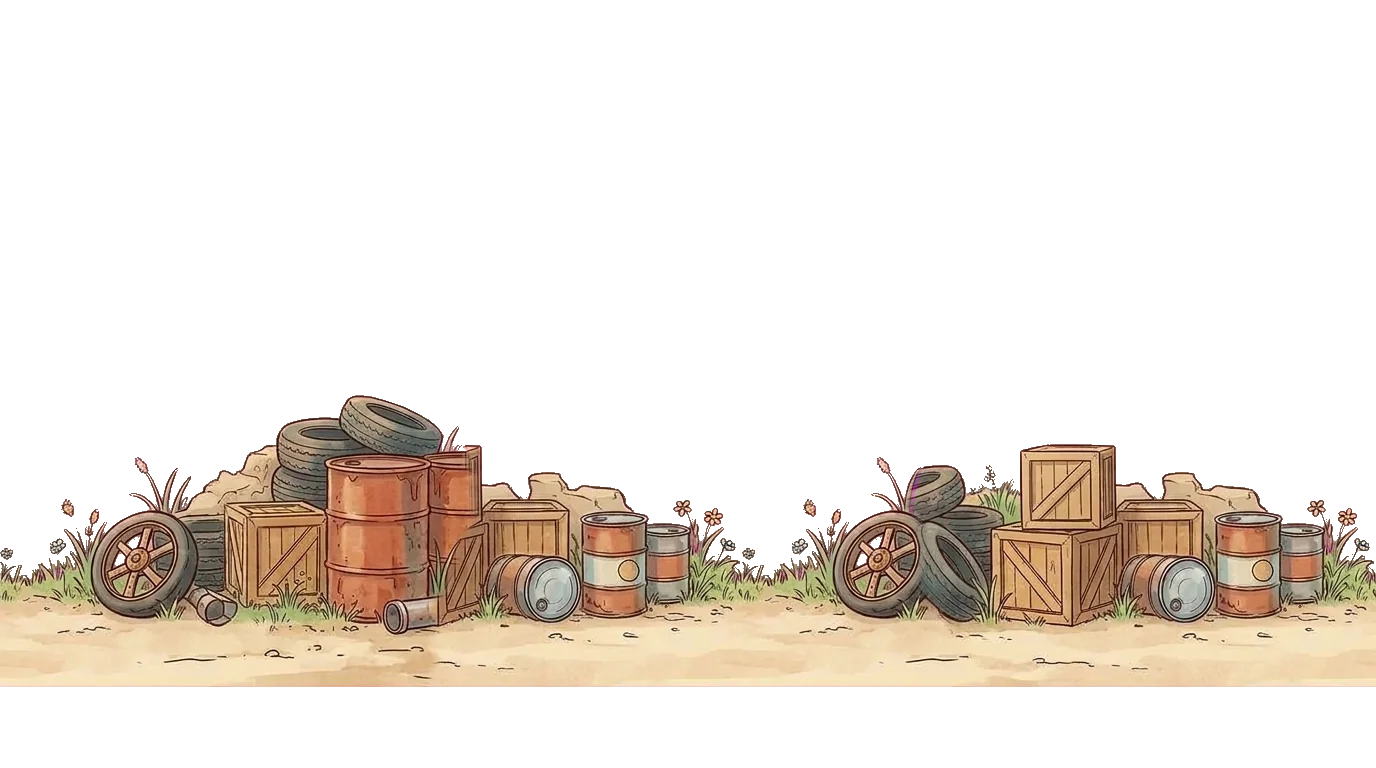
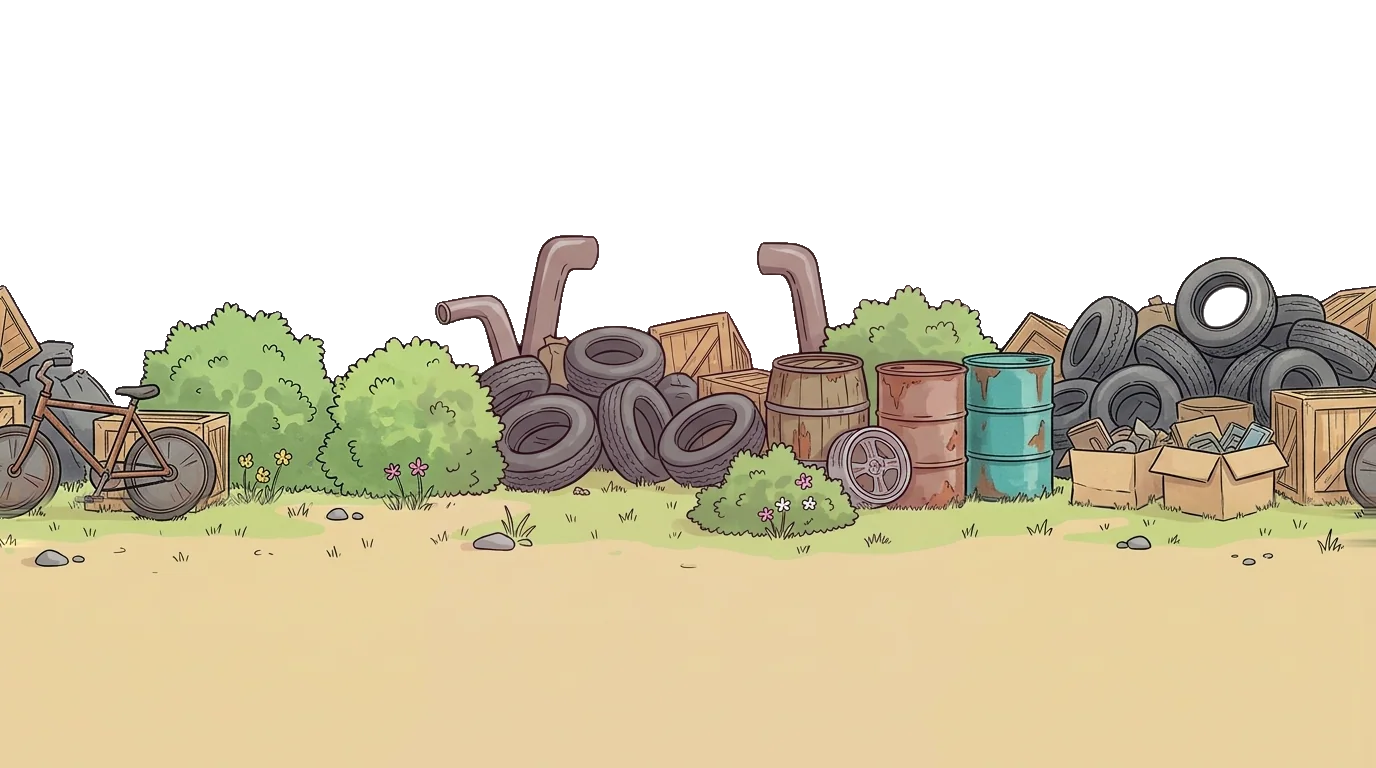
feat(junkyard): redraw background layers from scratch, half-size tire pile

diff --git a/src/game/modes/junkyard.ts b/src/game/modes/junkyard.ts
@@ -215,7 +215,7 @@ export class GearsMode extends ApproachMode {
 
 /** The tire pile: its pictures by stage (big, half, small), their height, and the bin right of it. */
 const PILES = ['obj-tire-pile-1', 'obj-tire-pile-2', 'obj-tire-pile-3'];
-const PILE_H = [300, 220, 140];
+const PILE_H = [150, 110, 70];
 /** The pile stands this far right of him at most (on a wide stage the scene stays together), the bin this far right of the pile. */
 const PILE_FROM_HERO = 820;
 const BIN_FROM_PILE = 220;

diff --git a/assets-src/PROMPTS.md b/assets-src/PROMPTS.md
@@ -249,6 +249,26 @@ Notes from real Gemini runs; add new ones here.
   far itself as donor filled the middle with a slice of the same scene, the sky one tone across the gap
   (junkyard, 2026-11-15, when the daily limit stopped the seam repaint). A few barrels show twice, which
   reads as a row of barrels; a scene with one big landmark in the slice would show it twice.
+- Junkyard layers from scratch (2026-11-15), the owner's procedure for bands: cut the chosen strip of a
+  sheet, move it to the vertical middle of a magenta frame, `prep` it, then also paint white everything
+  below a row about 20 to 80 px above the strip's bottom, across the whole width; Gemini repaints the
+  seam and the ground down to the bottom edge in one go (full bands, no thin cut bottom). `merge` then
+  keeps only the middle, so first copy Gemini's bottom (shifted by `merge`'s reported shift, which was 11 px
+  once) into `rolled.png`, and even the bottom's left and right edges (Gemini's do not meet). The steps
+  ran as one-off scripts. A far with everything important high: say "two more layers will be drawn in
+  front of its lower half, EVERYTHING IMPORTANT IS PLACED HIGH" and describe each third; "the lower,
+  the less detail" worked. "A low crane with a flat boom" still came steep.
+- Seam repaint of a band: name the theme and the drawing style in the prompt (without them Gemini put a
+  wooden wine barrel into the junkyard), and give the white gap's upper border the exact shape of the top
+  edge: `prep` pads the drawing by 3 px, so Gemini drew the edge that much higher (a visible step); a
+  border running straight from one side's edge to the other gave a flat plane; soft bumps of 2 to 13 px
+  that end at both sides' heights, with "draw the line exactly along that upper border, following each
+  bump", joined cleanly. A 30 % gap with the bottom white from 20 px above the strip's bottom left a
+  visible horizontal border; 50 % with the bottom white from about 80 px up did not.
+- Strip prompts that worked (junkyard mid and near): a list of the things and "spread EVENLY from the left
+  edge through the MIDDLE" (the middle becomes the edges at `prep`), solid disc wheels instead of spokes,
+  dark solid car windows, flowers only low in the grass, "NO springs", "one VERY THIN black line as thin as
+  a fine pen" on the top edge; a sand color given in hex taken from the band behind (#E9D2A1) matched it.
 ---
 
 ## 1. Tapko and friends (companions)
@@ -505,22 +525,26 @@ Landscape image, 1376 x 768 pixels (16:9), background for a 2D side-scrolling pl
 
 ### Prompt for the seam (attach `seam-in.png`)
 ```
-Inpainting task on the attached image (1376 x 768 pixels), do not create a new picture. The attached drawing is unfinished: the white area in the middle is empty paper. Draw only into that white area. Everything outside it must stay pixel for pixel identical, with exactly the same colors: do not move, redraw, recolor or recompose anything. Inside the white area, draw the missing part of the same landscape so that everything from the left side continues smoothly into the right side, in exactly the same drawing style and colors: the sky in the middle has exactly the same color as on both sides, no lighter or darker stripe, no visible border. No white left anywhere. Output the whole image at exactly 1376 x 768 pixels.
+Inpainting task on the attached image (1376 x 768 pixels), do not create a new picture. The picture is THEME, drawn as STYLE. The attached drawing is unfinished: the white area in the middle is empty paper. Draw only into that white area. Everything outside it must stay pixel for pixel identical, with exactly the same colors: do not move, redraw, recolor or recompose anything. Inside the white area, draw the missing part of the same landscape, only things that belong to the theme, so that everything from the left side continues smoothly into the right side, in exactly the same drawing style and colors: the sky in the middle has exactly the same color as on both sides, no lighter or darker stripe, no visible border. No white left anywhere. Output the whole image at exactly 1376 x 768 pixels.
 ```
-Do not start it with "Generate an image": Gemini then draws a new picture.
+Do not start it with "Generate an image": Gemini then draws a new picture. THEME and STYLE are needed
+(the owner, 2026-11-15): without them the junkyard mid repaint got a wooden wine barrel and thicker
+lines; name the world's things and "very thin dark ink outlines, light watercolor shading".
 
 ### Prompt for `near` (a sheet of three strips; replace PLANTS)
 ```
 Generate an image: Three <world> strips
 
-Image 1376 x 768 pixels (16:9) on a flat solid pure magenta (#FF00FF) background. The image is a sheet with THREE separate long, low horizontal strips stacked above each other, with a clear band of flat magenta between the strips and above the top strip. Each strip runs all the way from the left edge to the right edge of the image, cut by both edges, no margin at the sides; the bottom strip continues down to the bottom edge. Each strip is about 190 pixels tall: a side view of the closest foreground of the world for a 2D side-scrolling platformer game, seen from a few metres away: PLANTS. The bottom of each strip is cut straight, with no line, no outline and no ground drawn under it. The top of each strip is uneven. The three strips are different from each other. The magenta touches the drawing directly, no halo, no glow, no white rim.
+Image 1376 x 768 pixels (16:9) on a flat solid pure magenta (#FF00FF) background. The image is a sheet with THREE separate long, low horizontal strips stacked above each other, with a clear band of flat magenta between the strips and above the top strip. Each strip runs all the way from the left edge to the right edge of the image, cut by both edges, no margin at the sides; the bottom strip continues down to the bottom edge. Each strip is about 190 pixels tall: a side view of the closest foreground of the world for a 2D side-scrolling platformer game, seen from a few metres away: PLANTS. The bottom of each strip is cut straight, with no line, no outline and no ground drawn under it. The top of each strip is uneven. The whole upper edge of each strip, everywhere the drawing touches the magenta, has one clear, continuous, solid black outline that separates it cleanly from the magenta. Along that upper edge nothing is thin, fine or see-through: no single thin leaves, twigs, grass blades or wires sticking out, no lace of branches or leaves with small gaps between them, every shape there solid and simple. A spring or anything with wires is drawn with thick wires and wide gaps between them, few turns, never many thin wires close together. The three strips are different from each other. The magenta touches the drawing directly, no halo, no glow, no white rim.
 
-Hand-drawn Japanese anime background art, clearly a drawing and not a photo: thin soft dark green outlines (not black), simple color areas with light watercolor shading, fresh natural colors, moderate detail. No pink, purple or violet. No text, no characters, no animals. Flat side view, no vanishing point.
+Hand-drawn Japanese anime background art, clearly a drawing and not a photo: thin soft dark green outlines inside the strips (the upper edge black, as said above), simple color areas with light watercolor shading, fresh natural colors, moderate detail. No pink, purple or violet. No text, no characters, no animals. Flat side view, no vanishing point.
 ```
 
 ### Prompt for `mid` (a sheet of two strips; replace BAND)
 Like the near prompt, with TWO strips of about 330 pixels, "a side view of a band of the world
-seen from some distance: BAND", "rich small details" and "clean thin dark ink outlines".
+seen from some distance: BAND", "rich small details" and "clean thin dark ink outlines". The sentences
+on the black upper edge and on thick, widely spaced wires stay: thin parts and small gaps at the top edge
+leave magenta or cyan fringes that the key cannot take out.
 
 The tables below (here and in the later sections) say what each world shows; all 16 worlds were
 redrawn on 2026-10-25 with the prompts above, so the Height and Status columns are from the earlier
@@ -963,9 +987,9 @@ first, then attach it to the other prompts ("the same robot as in the attached i
 ### Backgrounds (section 3 prompts)
 | File | SCENE / LAYER | Height | Status |
 |---|---|---|---|
-| `bg-junkyard-far.jpg` | a friendly junkyard in soft daylight with soft hills of old things far away, a rusty but cheerful crane and a light blue sky | full | redone 2026-11-15 (the old layer attached, "redraw clean, copying the composition is wanted"; seam by `quilt` from itself with a 14 % gap, as the daily limit was reached before a Gemini seam repaint: the sky stays one tone) |
-| `bg-junkyard-mid.jpg` | soft piles of old tires, wooden crates and round metal cans | 45 % | redone 2026-11-15 (the old sheet attached; sheet of two strips on a dull pink key, turned to #FF00FF locally; strip 1 quilted with itself, lifted 81 px) |
-| `bg-junkyard-near.jpg` | a few big coiled metal springs, large bolts and nuts and thick grass tufts | 25 % | redone 2026-11-15 (the old sheet attached; strip 3 of three quilted with itself; its sand from row 675 as before) |
+| `bg-junkyard-far.jpg` | (redone from scratch 2026-11-15, no attachment; prompt below the table) a junkyard seen from far, all of it in the upper part of the picture, a crawler crane loading a scrap heap, less detail the lower it goes | full | done 2026-11-15 (try 2; seam by Gemini) |
+| `bg-junkyard-mid.jpg` | (redone from scratch 2026-11-15, no attachment; prompt below the table) tires and rims, barrels, a heap of tires and crates, boxes of junk, a bicycle, a car body, a motorcycle, round bushes, flowers only low | 45 % | done 2026-11-15 (try 3, strip 1 centered, seam and ground by Gemini, moved down 4 px) |
+| `bg-junkyard-near.jpg` | (redone from scratch 2026-11-15, no attachment; prompt below the table) pale beige loose sand like the mid band's ground (#E9D2A1), a lying tin can at the top edge, a few bolts and low grass tufts, lower only soft wavy lines and pebbles | 25 % | done 2026-11-15 (try 3, strip 1 centered, seam with a bumpy edge and ground by Gemini, moved down 274 px; try 1: things only near the sides; try 2: the earth too brown) |
 | `bg-workshop-far.jpg` | the inside of a warm cozy workshop with wooden walls, shelves with jars of screws, hanging tools and a round window | full | |
 | `bg-workshop-mid.jpg` | a workbench with drawers and a vise, a tool cabinet, a mint toolbox, stacked crates, a pegboard with tools, a drill press, a stool and a barrel with rods | 45 % | done 2026-10-23 |
 | `bg-workshop-near.jpg` | a conveyor belt across the whole image with rollers below, and on it in one row a gear, an open crate, a robot arm part, copper wire, a box of bolts, a wheel, a battery and a small robot head; nothing behind them | 25 % | done 2026-10-23 |
@@ -978,6 +1002,41 @@ first, then attach it to the other prompts ("the same robot as in the attached i
 | `bg-robohome-far.jpg` | the inside of a cozy robot home: round windows, warm lamps, soft sofa, shelves with little gadgets, pastel colors | full | |
 | `bg-robohome-mid.jpg` | a row of cozy furniture: a low cabinet, a plant in a pot, a round rug | 40 % | |
 | `bg-robohome-near.jpg` | a warm wooden floor of vertical parallel planks, a book, a ball and a slipper | 20 % | redone 2026-10-26 (planks parallel, no V at the joins) |
+
+Prompt for `bg-junkyard-far` (the far prompt, rewritten so the scene sits high; two bands come in front):
+```
+Generate an image: A friendly junkyard seen from far
+
+Hand-drawn Japanese anime background art with clean thin dark ink line art, fresh saturated natural colors and light watercolor shading; not blurry, not pale, not washed out.
+
+Landscape image, 1376 x 768 pixels (16:9), the farthest background layer of a 2D side-scrolling platformer game for children and young teens aged 12 to 15. Two more layers will be drawn in front of its lower half, so EVERYTHING IMPORTANT IS PLACED HIGH IN THE PICTURE.
+Sky: only a thin strip of light blue sky at the very top, about 8 % of the image height, with two or three tiny clouds; the same brightness across the whole width, no sun, no sun glow, no bright spot.
+Right under the sky, in the upper third of the image: a big friendly junkyard seen from far away in soft daylight: low hills of old scrap on the horizon, then long rows of scrap heaps: old tires, rusty and teal oil barrels, wooden crates, bent pipes, old wheels and an old rusty car body. This upper third has the most detail.
+One rusty orange crawler crane on caterpillar tracks stands in this upper third, about a third of the image width from the left edge. It is low and small: its short lattice boom leans forward at a flat angle, and the tip of the boom rises only a little above the scrap hills, barely into the sky. The crane is whole and well drawn from its tracks to the tip of its boom; its cable holds an open grab bucket full of scrap just above a big scrap heap beside it, loading the heap.
+The middle third: a wide sandy yard with a few low scrap heaps, simpler and with less detail.
+The lower third: almost empty sand with a little grass and a few small stones, very simple, the least detail of the whole picture, no objects.
+The lower the part of the picture, the less detail it has. Near both the left and the right image edges only low scrap heaps and sand, no tall objects. One single continuous scene, not split into rows or panels, no line, frame or border anywhere. No large objects close to the viewer. No text, no letters, no numbers, no watermark, no characters, no people, no animals.
+```
+Done on try 2 (2026-11-15): sky 17 %, everything high; the boom still rose steep to near the top edge, the
+owner kept it. Seam by Gemini's repaint (`prep` 30 % gap, `merge` OK on the first answer).
+
+Prompt for `bg-junkyard-mid` (the mid prompt written out):
+```
+Generate an image: Two junkyard strips
+
+Image 1376 x 768 pixels (16:9) on a flat solid pure magenta (#FF00FF) background, exactly #FF00FF, not dull pink, not purple. The image is a sheet with TWO separate horizontal strips stacked above each other, with a narrow band of flat magenta between the strips and above the top strip. The two strips together fill most of the image: each strip is TALL, almost half of the image height (about 330 pixels). Each strip runs all the way from the left edge to the right edge of the image, cut by both edges, no margin at the sides; the bottom strip continues down to the bottom edge. Each strip is a side view of a band of a friendly junkyard seen from some distance, for a 2D side-scrolling platformer game, with these things one after another along it: old tires and loose old wheel rims, a few old rusty and teal oil barrels, a big heap of tires and wooden crates, cardboard boxes full of junk, an old very rusty half-eaten bicycle with thick tubes leaning on a crate, its wheels solid plastic disc wheels with NO spokes, an old rusty car body without wheels, its windows dark and solid (not see-through), an old rusty motorcycle whose whole back half is missing, a few round leafy bushes. Flowers grow only low at the bottom, in the grass in front of the things, with short stems; never on top of a bush or a heap, never near the upper edge. Some thick bent pipes may stick up out of the heaps in nice curves. A tire lying on top of a heap may show the magenta through its round middle, cleanly outlined; no other see-through parts: no spokes, no see-through windows, no wire mesh. The piles have different heights, so the top of each strip is uneven. On light sandy ground with short grass at the bottom, inside the strip, away from its upper edge. The two strips show the things in a different order and look clearly different. The bottom of each strip is cut straight, with no line, no outline and no ground drawn under it. The whole upper edge of each strip, everywhere the drawing touches the magenta, has one clear, continuous, solid black outline that separates it cleanly from the magenta. Along that upper edge nothing is thin, fine or see-through: no grass blades, no single thin leaves, twigs, wires or thin rods sticking out, no small holes or narrow gaps where the magenta shows through between parts; the bushes there are round and solid, every shape simple. NO springs anywhere. The two strips are different from each other. The magenta touches the drawing directly, no halo, no glow, no white rim, no shadow on the magenta.
+
+Hand-drawn Japanese anime background art, clearly a drawing and not a photo: clean thin dark ink outlines, simple color areas with light watercolor shading, fresh natural colors, rich small details but less than a far background. No pink, purple or violet in the drawing. No text, no letters, no numbers, no characters, no animals. Flat side view, no vanishing point.
+```
+
+Prompt for `bg-junkyard-near` (try 3, the near prompt written out):
+```
+Generate an image: Three junkyard ground strips
+
+Image 1376 x 768 pixels (16:9) on a flat solid pure magenta (#FF00FF) background, exactly #FF00FF, not dull pink, not purple. The image is a sheet with THREE separate long, low horizontal strips stacked above each other, with a clear band of flat magenta between the strips and above the top strip. Each strip runs all the way from the left edge to the right edge of the image, cut by both edges, no margin at the sides; the bottom strip continues down to the bottom edge. Each strip is about 190 pixels tall: a side view of the closest ground of a friendly junkyard for a 2D side-scrolling platformer game, seen from a few metres away: loose light sandy ground, pale warm beige sand (#E9D2A1, a little darker #D9BE8C in the shadows), NOT brown dirt. Near the top of each strip: an old rusty tin can lying on its side right at the upper edge, a few old bolts lying here and there, and a few low tufts of grass. Lower down, the lower the simpler: only plain loose sand with simple soft wavy lines, light watercolor shading of an ordinary unpaved ground and a few small pebbles, no other things. The things are spread evenly along the whole strip, from the left edge through the MIDDLE to the right edge, not only at the sides. Nothing sticks up above the upper edge except the low lying can. The upper edge of each strip is the top of the ground: gently uneven with soft low bumps. The whole upper edge, everywhere the drawing touches the magenta, is outlined by one VERY THIN, continuous, clean black line, as thin as a fine pen, separating the sand cleanly from the magenta. Along that upper edge nothing is thin or see-through: no grass blades, stems, twigs or wires sticking out, no holes or gaps where the magenta shows through. NO springs anywhere. The bottom of each strip is cut straight, with no line, no outline and no ground drawn under it. The three strips are different from each other, the things in a different order. The magenta touches the drawing directly, no halo, no glow, no white rim, no shadow on the magenta.
+
+Hand-drawn Japanese anime background art, clearly a drawing and not a photo: very thin soft brown ink outlines inside the strips (the upper edge a very thin black line), simple color areas with light watercolor shading, fresh natural colors, little detail: the closest layer is the simplest. No pink, purple or violet in the drawing. No text, no letters, no numbers, no characters, no animals. Flat side view, no vanishing point.
+```
 
 ### Game objects (section 4 prompt)
 | File | OBJECT | BG |

diff --git a/.todo/BACKLOG.md b/.todo/BACKLOG.md
@@ -15,3 +15,4 @@ Search before adding; an entry is worked only when it is named.
 - [P3] Môj postup keeps the old key selected after a mix-up key is opened - clicking a mix-up key in the key facts (src/screens/stats.ts keyDetail) swaps the detail to that key, but the heatmap's .selected mark stays on the first key
 - [P2] Czech texts and word list need a native read - public/i18n/cs.json and public/words/cs.json were written by the session (plan czech-language, 2026-11-15, no corpus because of licences); read wording, tykání and gender-free second person in the game; the owner may instead want the word list rebuilt from a frequency list (FrequencyWords cs 2018, CC-BY-SA-4.0 content, would need attribution) filtered by a Czech swear-word list such as SprostaSlova (licence to check)
 - [P3] Hero's speech bubble covers the junkyard's ribbon and code screen - in 6:4 and 6:5 (src/game/modes/junkyard-wake.ts) the bubble over the hero hides the top-left corner of the ribbon and of the source screen while it shows
+- [P3] Band seam steps of the junkyard rework are one-off scripts - centering a strip, the white ground below it, the exact bumpy gap edge, Gemini's bottom copied into rolled.png and the evened bottom edges (assets-src/PROMPTS.md lessons, 2026-11-15) belong in scripts/bg-seam.mjs as commands
